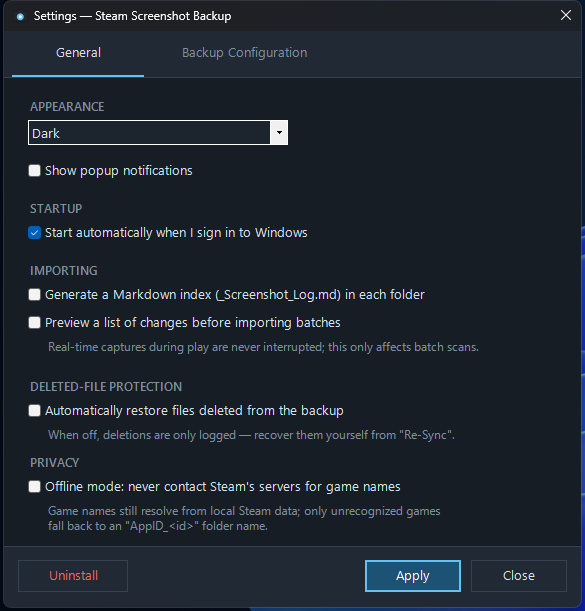
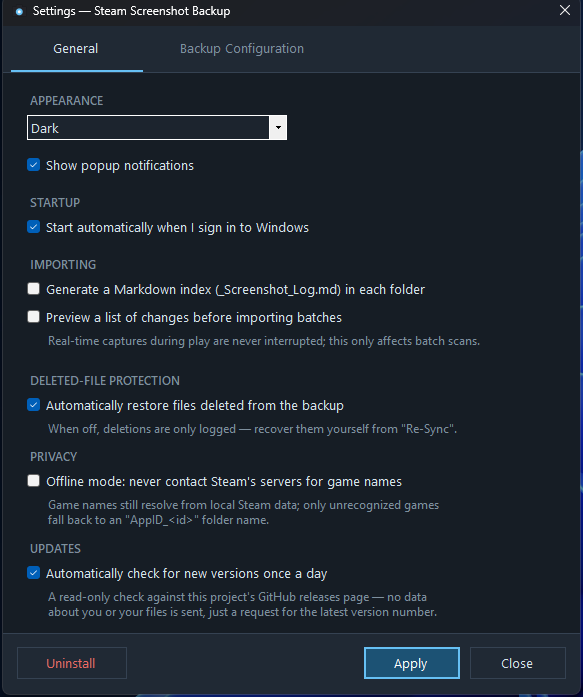
v3.11.0: add optional GitHub update checks
New UpdateChecker class does a single read-only HTTPS GET against this
repo's GitHub releases API, once a day, to let the user know when a
newer version is out - no data sent beyond the request itself. Fully
optional and layered the same way OfflineMode already is:

- Settings > General > UPDATES: "Automatically check for new versions
  once a day" (on by default), plus a manual "Check for Updates Now"
  in the tray right-click menu and the Utilities menu, both themed
  through the existing MessageDialog (new Confirm() overload for
  custom button text).
- Installer gets a matching opt-out task ("Turn off automatic update
  checks"), same registry-marker-on-first-run pattern as the existing
  offlinemode/deleteoriginals/nonotifications tasks.
- Respects OfflineMode (skips the check, manual button explains why)
  and is compiled out entirely under OFFLINE_ONLY, same as
  AppNameResolver's Steam store lookups - the offline-only portable
  build has none of this code at all.

Version comparison logic is pulled out into a pure, unit-tested
function (NewerVersionOrNull) separate from the network call.
Regenerated docs/img/settings-general.png for the new UPDATES section.
README updated (feature list, installer options, transparency section,
FAQ).

diff --git a/app/UpdateChecker.cs b/app/UpdateChecker.cs
@@ -1,0 +1,79 @@
+using System;
+using System.Net.Http;
+using System.Text.Json;
+
+namespace SteamScreenshotBackup
+{
+    // Checks GitHub's latest release against the running version: one read-only
+    // HTTPS GET to the public releases API, nothing else sent or received beyond
+    // that. Skipped entirely when Settings.OfflineMode is on, and compiled out
+    // completely (no HttpClient, no network code) in the OFFLINE_ONLY build -
+    // same pattern as AppNameResolver's Steam store lookups.
+    internal static class UpdateChecker
+    {
+        private const string ReleasesApiUrl =
+            "https://api.github.com/repos/Erdmann5150/Steam-Screenshot-Backup/releases/latest";
+        public const string ReleasesPageUrl =
+            "https://github.com/Erdmann5150/Steam-Screenshot-Backup/releases/latest";
+
+        public class UpdateInfo
+        {
+            public string Version;
+            public string Url;
+        }
+
+        // The running app's own version, read from assembly metadata (kept in sync
+        // with the installer's #define AppVersion by build.ps1) rather than duplicated
+        // here as a literal.
+        public static string CurrentVersion { get; } =
+            System.Reflection.Assembly.GetExecutingAssembly().GetName().Version?.ToString(3) ?? "0.0.0";
+
+        // Pure comparison logic, kept separate from the network call so it can be
+        // unit-tested without one. Returns the cleaned tag (leading "v" stripped) if
+        // it parses as a version newer than `current`, otherwise null.
+        internal static string NewerVersionOrNull(string tag, string current)
+        {
+            string latest = tag?.Trim().TrimStart('v', 'V');
+            if (!Version.TryParse(latest, out var latestVersion)) return null;
+            if (!Version.TryParse(current, out var currentVersion)) return null;
+            return latestVersion > currentVersion ? latest : null;
+        }
+
+#if OFFLINE_ONLY
+        public static UpdateInfo CheckNow(Settings settings) => null;
+#else
+        private static readonly HttpClient Http = new HttpClient { Timeout = TimeSpan.FromSeconds(10) };
+
+        static UpdateChecker()
+        {
+            // GitHub's API rejects requests with no User-Agent.
+            Http.DefaultRequestHeaders.UserAgent.ParseAdd("SteamScreenshotBackup-UpdateCheck");
+        }
+
+        // Returns the latest published release's version/url, or null when up to
+        // date, offline mode is on, or the check failed for any reason - this never
+        // throws, since it can run unattended on a background timer.
+        public static UpdateInfo CheckNow(Settings settings)
+        {
+            if (settings.OfflineMode) return null;
+            try
+            {
+                string json = Http.GetStringAsync(ReleasesApiUrl).GetAwaiter().GetResult();
+                using var doc = JsonDocument.Parse(json);
+
+                string tag = doc.RootElement.TryGetProperty("tag_name", out var t) ? t.GetString() : null;
+                string url = doc.RootElement.TryGetProperty("html_url", out var u) ? u.GetString() : null;
+
+                string newer = NewerVersionOrNull(tag, CurrentVersion);
+                if (newer == null) return null;
+                return new UpdateInfo { Version = newer, Url = url ?? ReleasesPageUrl };
+            }
+            catch (Exception ex)
+            {
+                Logger.Warn("Update check failed: " + ex.Message);
+                return null;
+            }
+        }
+#endif
+    }
+}

diff --git a/app/TrayContext.cs b/app/TrayContext.cs
@@ -22,6 +22,11 @@ namespace SteamScreenshotBackup
         private readonly ToolStripMenuItem _autoStartItem;
         private readonly ContextMenuStrip _menu;
         private BackupEngine _engine;
+#if !OFFLINE_ONLY
+        // Fully-qualified to avoid ambiguity with System.Windows.Forms.Timer, which
+        // is also in scope in this file.
+        private System.Threading.Timer _updateCheckTimer;
+#endif
 
         public BackupEngine Engine => _engine;
         public Settings SettingsObj => _settings;
@@ -55,6 +60,9 @@ namespace SteamScreenshotBackup
             _menu.Items.Add(_autoStartItem);
 
             _menu.Items.Add("Settings", null, (s, e) => ShowSettings(null));
+#if !OFFLINE_ONLY
+            _menu.Items.Add("Check for Updates Now", null, (s, e) => CheckForUpdatesNow());
+#endif
             _menu.Items.Add(new ToolStripSeparator());
             _menu.Items.Add("Uninstall", null, (s, e) => Uninstall());
             _menu.Items.Add("Exit", null, (s, e) => ExitApp());
@@ -110,6 +118,13 @@ namespace SteamScreenshotBackup
                     _settings.MetadataBackfilled = true;
                     _settings.Save();
                 });
+
+#if !OFFLINE_ONLY
+            // Small delay so this never competes with the startup catch-up scan above;
+            // then once a day, same cadence as AppNameResolver's background re-verification.
+            _updateCheckTimer = new System.Threading.Timer(
+                _ => AutoCheckForUpdates(), null, TimeSpan.FromMinutes(2), TimeSpan.FromHours(24));
+#endif
         }
 
         // Central gate for tray popups so the "show notifications" setting is honored.
@@ -144,6 +159,8 @@ namespace SteamScreenshotBackup
                     _settings.PreviewBeforeImport = true;
                 if (k?.GetValue("OfflineModeDefault") is int o && o == 1)
                     _settings.OfflineMode = true;
+                if (k?.GetValue("UpdateCheckOffDefault") is int u && u == 1)
+                    _settings.CheckForUpdates = false;
             }
             catch { }
 
@@ -200,6 +217,59 @@ namespace SteamScreenshotBackup
                 RunScan(RunKind.DestinationChanged);
             }
         }
+
+#if !OFFLINE_ONLY
+        // ----------------------------------------------------------- update checks
+
+        // User-initiated, from the tray menu or the Utilities menu: always gives
+        // visible feedback, even when there's nothing new.
+        public void CheckForUpdatesNow()
+        {
+            if (_settings.OfflineMode)
+            {
+                MessageDialog.Info(
+                    "Offline Mode is on, so update checks are disabled.\n\n" +
+                    "Turn it off in Settings \u2192 Privacy to check for updates.");
+                return;
+            }
+
+            Task.Run(() =>
+            {
+                var info = UpdateChecker.CheckNow(_settings);
+                OnUi(() =>
+                {
+                    if (info == null)
+                    {
+                        MessageDialog.Info($"You're running the latest version ({UpdateChecker.CurrentVersion}).");
+                        return;
+                    }
+                    if (MessageDialog.Confirm(
+                            $"Version {info.Version} is available \u2014 you have {UpdateChecker.CurrentVersion}.",
+                            "Update Available", "View Release", "Later"))
+                        Process.Start(new ProcessStartInfo { FileName = info.Url, UseShellExecute = true });
+                });
+            });
+        }
+
+        // Timer-driven background check: silent unless there's actually something
+        // new, and only notifies once per version so it doesn't nag on every pass.
+        private void AutoCheckForUpdates()
+        {
+            if (!_settings.CheckForUpdates || _settings.OfflineMode) return;
+
+            var info = UpdateChecker.CheckNow(_settings);
+            if (info == null) return;
+            if (string.Equals(_settings.LastNotifiedUpdateVersion, info.Version, StringComparison.OrdinalIgnoreCase))
+                return;
+
+            _settings.LastNotifiedUpdateVersion = info.Version;
+            _settings.Save();
+            Logger.Log($"Update available: version {info.Version} (currently running {UpdateChecker.CurrentVersion}).");
+            Notify(6000,
+                $"Version {info.Version} is available \u2014 use \"Check for Updates Now\" to view it.",
+                ToolTipIcon.Info);
+        }
+#endif
 
         // ----------------------------------------------------------- scan runs
 
@@ -384,6 +454,9 @@ namespace SteamScreenshotBackup
         private void ExitApp()
         {
             _tray.Visible = false;
+#if !OFFLINE_ONLY
+            _updateCheckTimer?.Dispose();
+#endif
             _engine?.Dispose();
             ExitThread();
         }

diff --git a/tests/SteamScreenshotBackup.Tests/UpdateCheckerTests.cs b/tests/SteamScreenshotBackup.Tests/UpdateCheckerTests.cs
@@ -1,0 +1,36 @@
+using Xunit;
+
+namespace SteamScreenshotBackup.Tests
+{
+    public class UpdateCheckerTests
+    {
+        [Theory]
+        [InlineData("v3.11.0", "3.10.0", "3.11.0")]   // newer, "v" prefix stripped
+        [InlineData("V3.11.0", "3.10.0", "3.11.0")]   // uppercase "V" prefix also stripped
+        [InlineData("3.11.0", "3.10.0", "3.11.0")]    // no prefix at all
+        [InlineData("v4.0.0", "3.10.0", "4.0.0")]     // major bump
+        public void NewerVersionOrNull_NewerTag_ReturnsCleanedVersion(string tag, string current, string expected)
+        {
+            Assert.Equal(expected, UpdateChecker.NewerVersionOrNull(tag, current));
+        }
+
+        [Theory]
+        [InlineData("v3.10.0", "3.10.0")]   // same version
+        [InlineData("v3.9.2", "3.10.0")]    // older
+        [InlineData("v3.9.9", "3.10.0")]    // older, higher patch than current's patch but lower minor
+        public void NewerVersionOrNull_NotNewer_ReturnsNull(string tag, string current)
+        {
+            Assert.Null(UpdateChecker.NewerVersionOrNull(tag, current));
+        }
+
+        [Theory]
+        [InlineData(null, "3.10.0")]
+        [InlineData("not-a-version", "3.10.0")]
+        [InlineData("v3.11.0", "not-a-version")]
+        [InlineData("v3.11.0", null)]
+        public void NewerVersionOrNull_UnparseableInput_ReturnsNullRatherThanThrowing(string tag, string current)
+        {
+            Assert.Null(UpdateChecker.NewerVersionOrNull(tag, current));
+        }
+    }
+}

diff --git a/app/SettingsWindow.cs b/app/SettingsWindow.cs
@@ -28,6 +28,9 @@ namespace SteamScreenshotBackup
         private readonly TextBox _highResFolder;
         private readonly CheckBox _standard, _highRes, _autoStart, _autoRestore, _deleteOriginals,
                                   _showNotifications, _markdownIndex, _previewImport, _offlineMode;
+#if !OFFLINE_ONLY
+        private readonly CheckBox _checkForUpdates;
+#endif
         private readonly ComboBox _layout, _theme;
         private bool _suppressDangerPrompt;   // guards the enable-confirmation loop
 
@@ -197,6 +200,17 @@ namespace SteamScreenshotBackup
 #if OFFLINE_ONLY
             _offlineMode.Checked = true;
             _offlineMode.Enabled = false;
+#endif
+
+#if !OFFLINE_ONLY
+            Section("UPDATES");
+            _checkForUpdates = new CheckBox();
+            Check(_checkForUpdates, "Automatically check for new versions once a day",
+                _settings.CheckForUpdates, Theme.Text);
+            y += 26;
+            Hint("A read-only check against this project's GitHub releases page \u2014 no data\n" +
+                 "about you or your files is sent, just a request for the latest version number.");
+            y += 44;
 #endif
             int generalBottom = y;
 
@@ -496,6 +510,9 @@ namespace SteamScreenshotBackup
             bool oldPreviewImport = _settings.PreviewBeforeImport;
             bool oldDeleteOriginals = _settings.DeleteOriginals;
             bool oldOfflineMode = _settings.OfflineMode;
+#if !OFFLINE_ONLY
+            bool oldCheckForUpdates = _settings.CheckForUpdates;
+#endif
             ThemeMode oldTheme = _settings.Theme;
             bool oldAutoStart = _app.IsAutoStartEnabled;
 
@@ -509,6 +526,9 @@ namespace SteamScreenshotBackup
             _settings.GenerateMarkdownIndex = _markdownIndex.Checked;
             _settings.PreviewBeforeImport = _previewImport.Checked;
             _settings.OfflineMode = _offlineMode.Checked;
+#if !OFFLINE_ONLY
+            _settings.CheckForUpdates = _checkForUpdates.Checked;
+#endif
             bool deleteOriginalsNewlyEnabled = _deleteOriginals.Checked && !_settings.DeleteOriginals;
             _settings.DeleteOriginals = _deleteOriginals.Checked;
             _settings.Theme = _theme.SelectedIndex switch
@@ -585,6 +605,9 @@ namespace SteamScreenshotBackup
             LogSettingChange("Preview Before Import", oldPreviewImport, _settings.PreviewBeforeImport);
             LogSettingChange("Delete Originals", oldDeleteOriginals, _settings.DeleteOriginals);
             LogSettingChange("Offline Mode", oldOfflineMode, _settings.OfflineMode);
+#if !OFFLINE_ONLY
+            LogSettingChange("Check For Updates", oldCheckForUpdates, _settings.CheckForUpdates);
+#endif
             LogSettingChange("Theme", oldTheme, _settings.Theme);
             LogSettingChange("Start With Windows", oldAutoStart, _autoStart.Checked);
 

diff --git a/app/Settings.cs b/app/Settings.cs
@@ -56,6 +56,15 @@ namespace SteamScreenshotBackup
         // (a NAS being unreachable) - see AppNameResolver for what this gates.
         public bool OfflineMode { get; set; } = false;
 
+        // Automatically check GitHub for a newer release once a day. A read-only
+        // HTTPS call to the public releases API, nothing else - skipped when
+        // OfflineMode is on, unavailable at all in the offline-only build.
+        public bool CheckForUpdates { get; set; } = true;
+
+        // The newest version already shown in an update notification, so the same
+        // release doesn't renotify on every daily check.
+        public string LastNotifiedUpdateVersion { get; set; }
+
         public static string Dir => Path.Combine(
             Environment.GetFolderPath(Environment.SpecialFolder.LocalApplicationData),
             "SteamScreenshotBackup");

diff --git a/app/MessageDialog.cs b/app/MessageDialog.cs
@@ -16,6 +16,11 @@ namespace SteamScreenshotBackup
         public static bool AskYesNo(string text, string title = "Steam Screenshot Backup")
             => Show(text, title, Theme.Accent, "Yes", "No") == DialogResult.OK;
 
+        // Same two-button dialog as AskYesNo, with custom button text (e.g. an
+        // "Update Available" prompt offering "View Release" / "Later").
+        public static bool Confirm(string text, string title, string okText, string cancelText)
+            => Show(text, title, Theme.Accent, okText, cancelText) == DialogResult.OK;
+
         // Mandatory second-look confirmation before any deletion (bulk or targeted):
         // always states exactly how many files and how much data are about to be sent
         // to the Recycle Bin. Returns false (with an info dialog, not a confirmation)

diff --git a/app/MainWindow.cs b/app/MainWindow.cs
@@ -275,6 +275,10 @@ namespace SteamScreenshotBackup
             menu.Items.Add(new ToolStripSeparator());
             menu.Items.Add("Granular Deletion", null,
                 (s, e) => TargetedDeleteWindow.ShowWindow(_app.Engine, this));
+#if !OFFLINE_ONLY
+            menu.Items.Add(new ToolStripSeparator());
+            menu.Items.Add("Check for Updates Now", null, (s, e) => _app.CheckForUpdatesNow());
+#endif
             menu.Show(anchor, new Point(0, anchor.Height));
         }
 

diff --git a/README.md b/README.md
@@ -102,6 +102,11 @@ Steam Screenshots/
 - **Offline mode.** Skip Steam's store lookups entirely (a Settings toggle or
   an installer checkbox), or download the dedicated offline-only portable
   build with that code removed completely.
+- **Update checks.** Optionally checks this project's GitHub releases once a
+  day and lets you know if a newer version is out (a Settings toggle or an
+  installer checkbox to turn it off), plus a manual **Check for Updates Now**
+  button in the tray menu and Utilities. Off automatically in Offline mode,
+  and not present at all in the offline-only portable build.
 - **Dark and light themes**, or follow the Windows setting.
 - **Statistics**: total games, screenshots, and data, plus per-session counters.
 
@@ -115,9 +120,10 @@ Steam Screenshots/
    [latest release](../../releases/latest).
 2. Run it. Pick an install folder (defaults to Program Files) and choose whether
    to start with Windows, add Start Menu / Desktop shortcuts, turn off popup
-   notifications, enable offline mode, preview batches before importing, and
-   (optionally, and flagged as dangerous) delete originals after import. The
-   main window opens automatically when setup finishes.
+   notifications, enable offline mode, turn off automatic update checks,
+   preview batches before importing, and (optionally, and flagged as
+   dangerous) delete originals after import. The main window opens
+   automatically when setup finishes.
 3. On first launch, choose your backup folder and which screenshot types to back
    up. That's the entire setup.
 
@@ -268,12 +274,16 @@ delete from them if you turn that on. Specifics:
   resolve an app ID into a game name - made only when the name isn't already
   known locally (installed-game manifests, the existing cache), and
   periodically re-checked in the background for names already resolved this
-  way. Only the app ID is sent, never screenshot data, filenames, or anything
-  else; there's no telemetry and no account of any kind. Turn on **Offline
-  mode** (Settings → General, or an installer checkbox) to skip these lookups
-  entirely - unresolved games just get an `AppID_<id>` folder name instead,
-  or download the dedicated offline-only portable build with that code
-  removed completely.
+  way - plus an optional once-a-day check against this project's GitHub
+  releases to let you know about a newer version. Only the app ID (for the
+  Steam lookup) or nothing at all (for the update check) is sent, never
+  screenshot data, filenames, or anything else; there's no telemetry and no
+  account of any kind. Turn on **Offline mode** (Settings → General, or an
+  installer checkbox) to skip both entirely - unresolved games just get an
+  `AppID_<id>` folder name instead, and update checks stop - or download the
+  dedicated offline-only portable build with that code removed completely.
+  The update check alone can also be turned off on its own (Settings →
+  General, or an installer checkbox) without affecting Steam name lookups.
 - The source is all here, so anything about how it handles your files can be
   checked directly instead of taken on faith.
 
@@ -299,12 +309,15 @@ scan clean on VirusTotal:
 
 **Does this upload my screenshots anywhere? Does it phone home?** No screenshot
 data, ever - see [What it does with your files](#what-it-does-with-your-files).
-The app does automatically make read-only network calls to the Steam store to
-resolve an app ID into a game name (only when it can't be found locally, plus
-a periodic background re-check of names resolved this way) - only the numeric
-app ID is sent, nothing else. Turn on **Offline mode** in Settings (or during
-install) to disable these lookups entirely, or use the offline-only portable
-build, which has that code removed at compile time. No telemetry, no account,
+The app does automatically make two kinds of read-only network calls: Steam
+store lookups to resolve an app ID into a game name (only when it can't be
+found locally, plus a periodic background re-check of names resolved this
+way - only the numeric app ID is sent, nothing else), and an optional
+once-a-day check against this project's GitHub releases for a newer version
+(no data sent at all). Turn on **Offline mode** in Settings (or during
+install) to disable both entirely, turn off just the update check on its own
+(also in Settings, or during install), or use the offline-only portable
+build, which has all of it removed at compile time. No telemetry, no account,
 no analytics of any kind.
 
 **Can it delete my screenshots?** Only if you turn on *Delete originals after